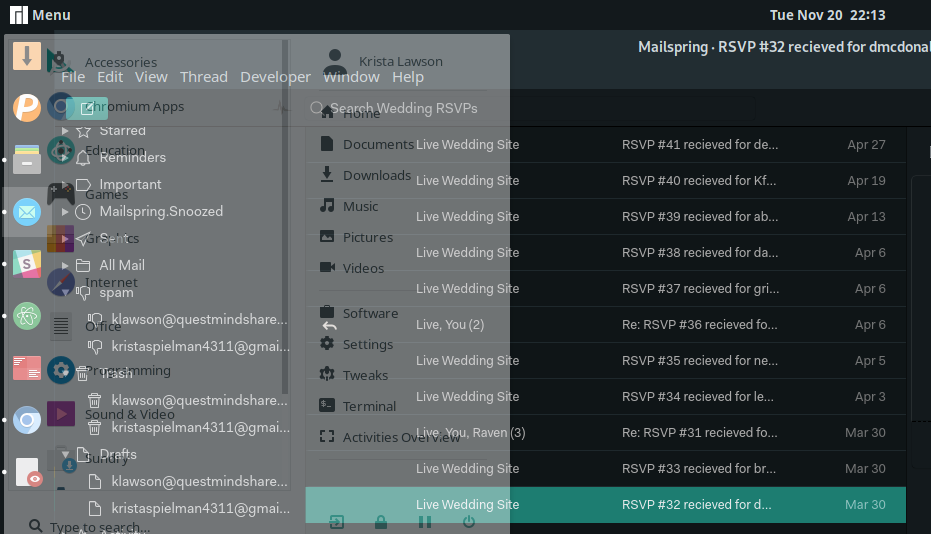
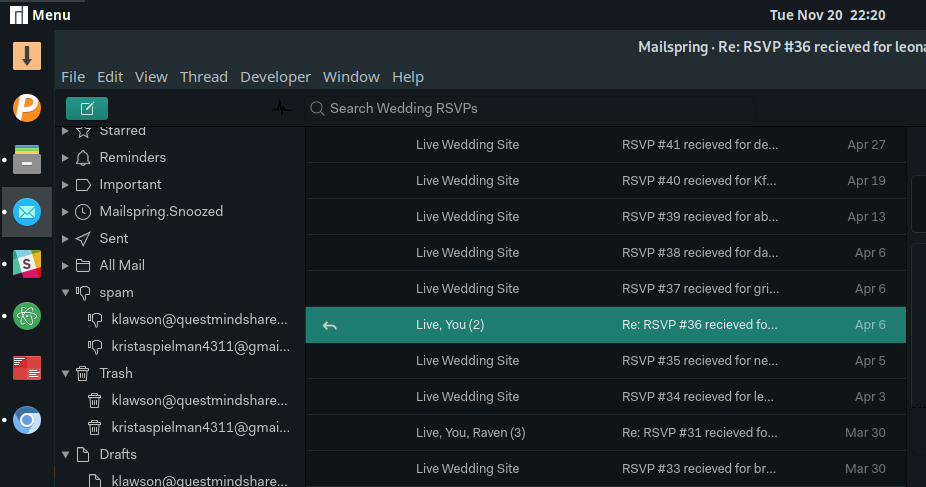
replace image in readme.  take image without app-menu overlay

diff --git a/README.md b/README.md
@@ -3,7 +3,7 @@
 The Mailspring Theme Starter is a basic starting point for creating a theme for
 the [Mailspring](http://www.getmailspring.com/) email client.
 
-<img src="https://raw.githubusercontent.com/Foundry376/Mailspring-Theme-Starter/master/screenshot/custom-theme.png" />
+<img src="https://github.com/klawson4311/Mailspring-Theme-Starter/blob/master/screenshot/custom-theme.png" />
 
 ## Getting Started
 
